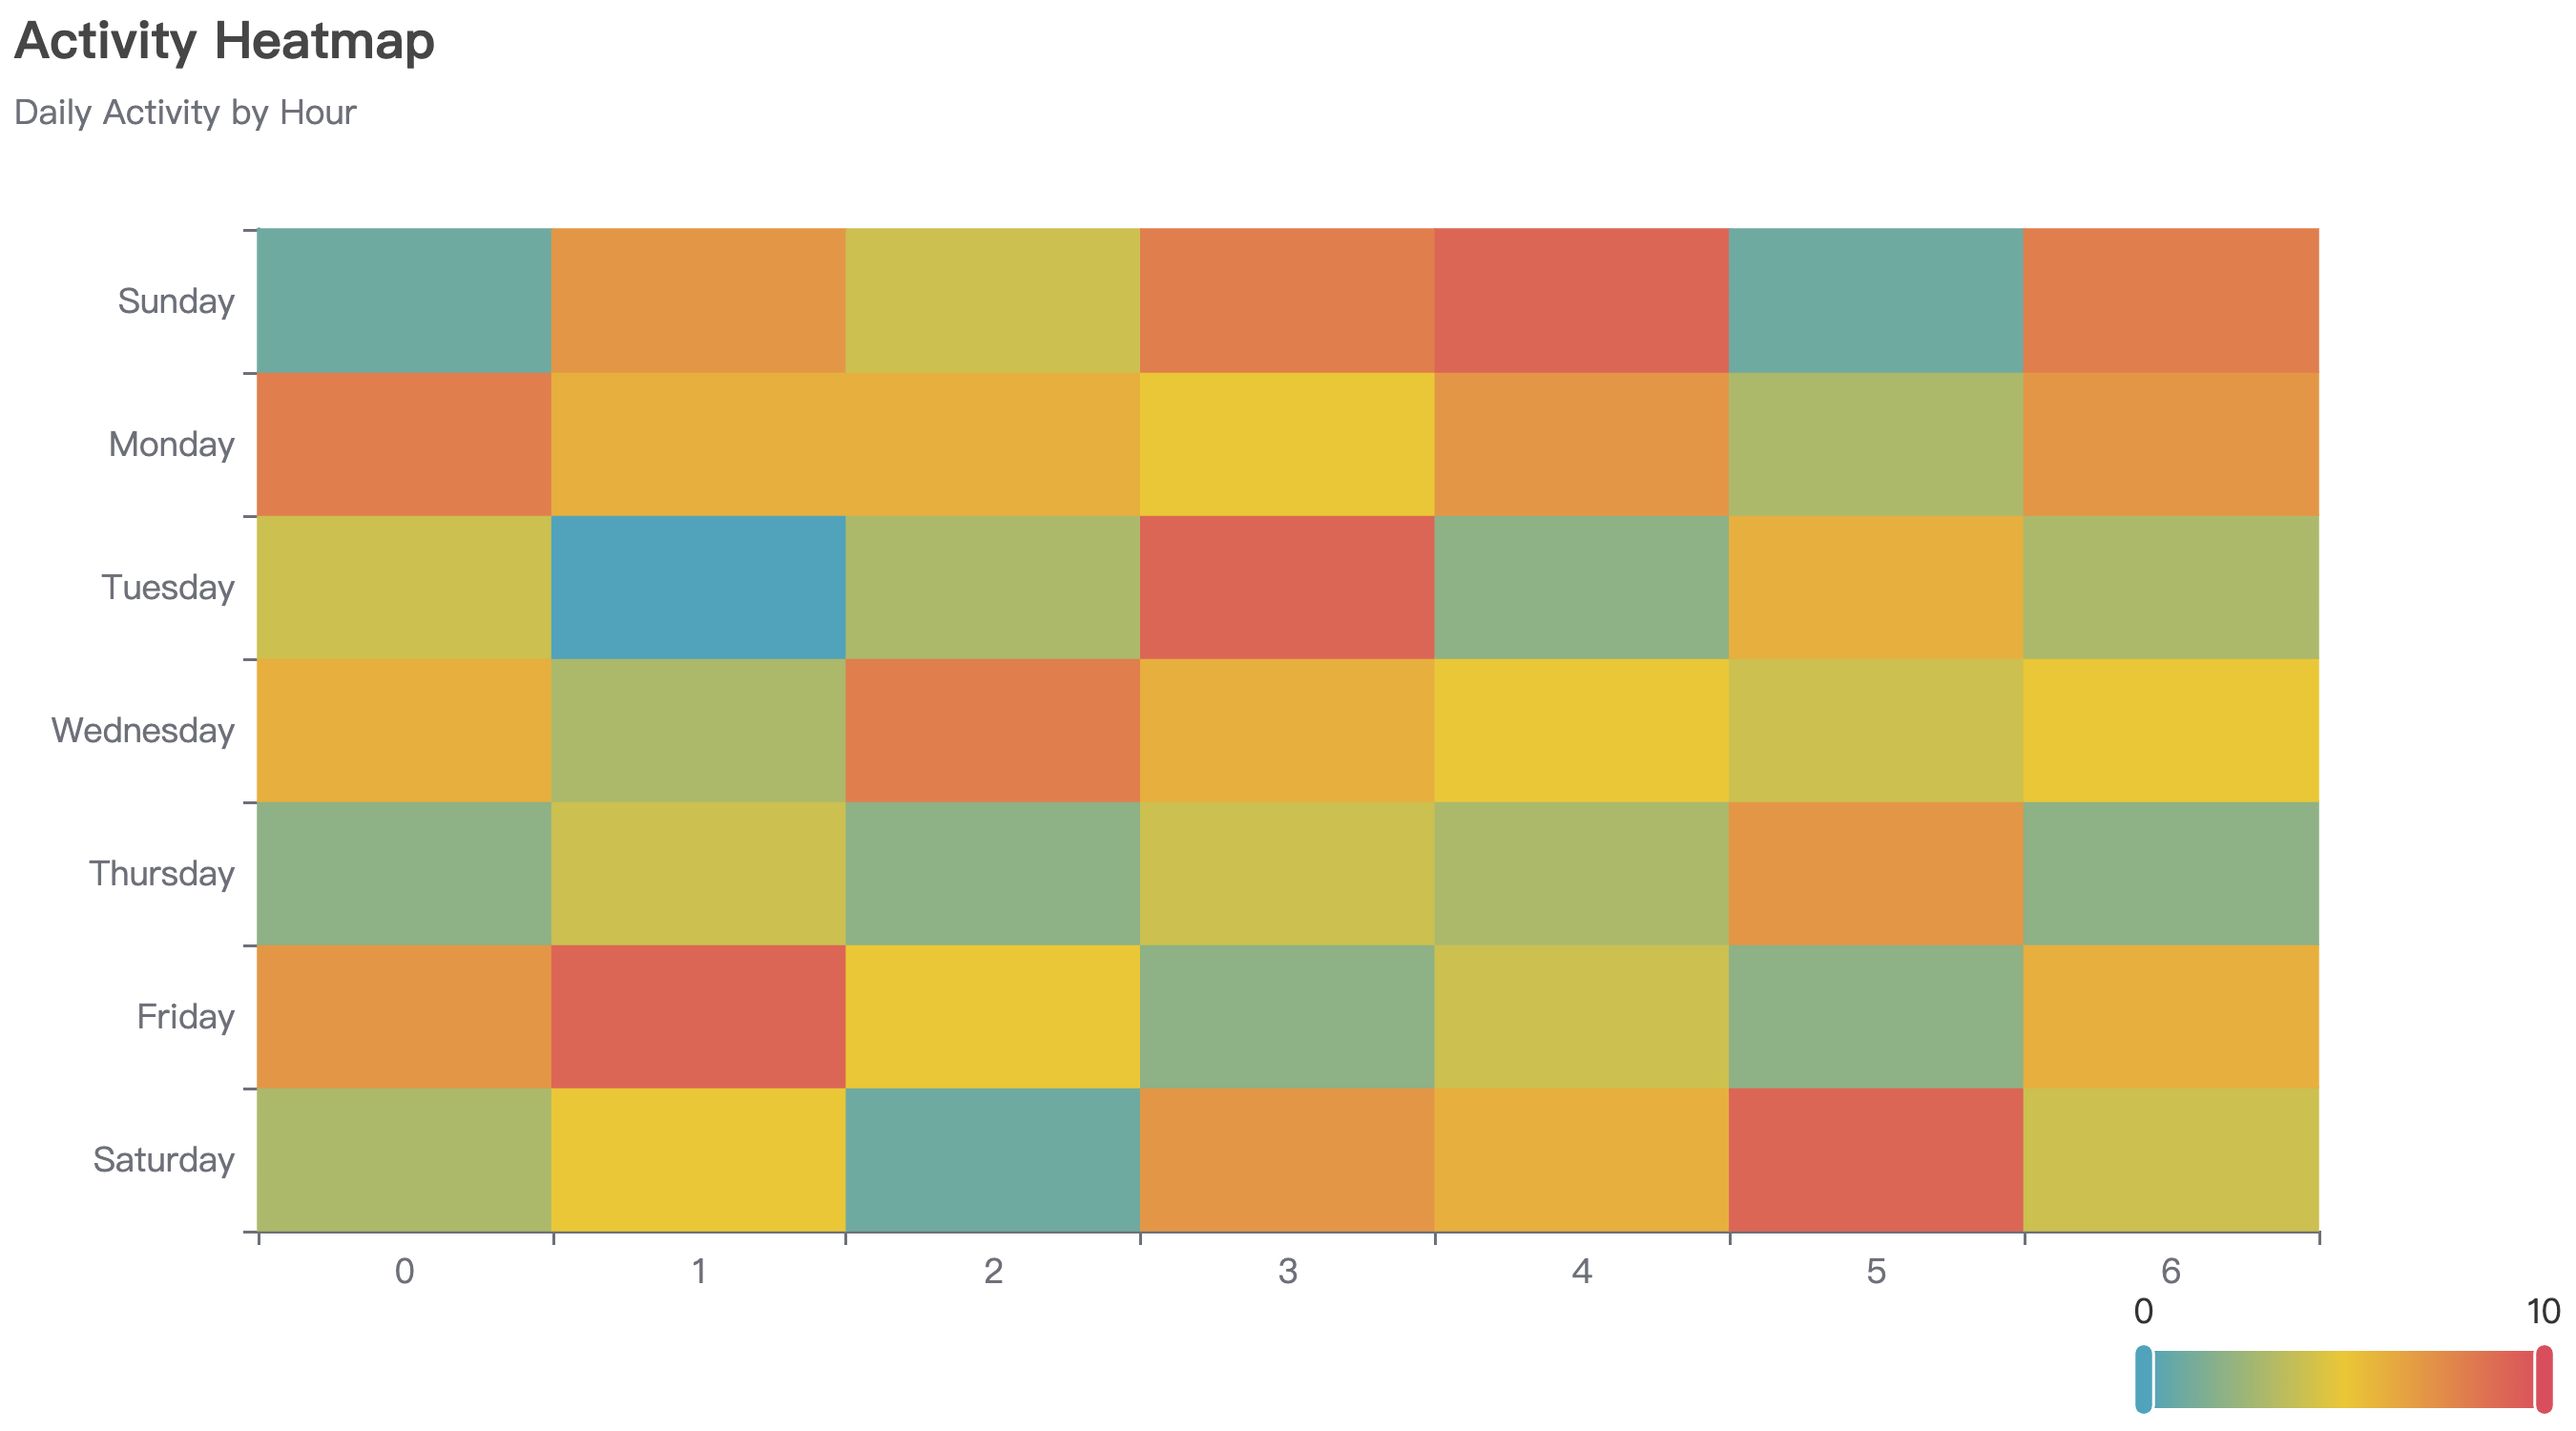
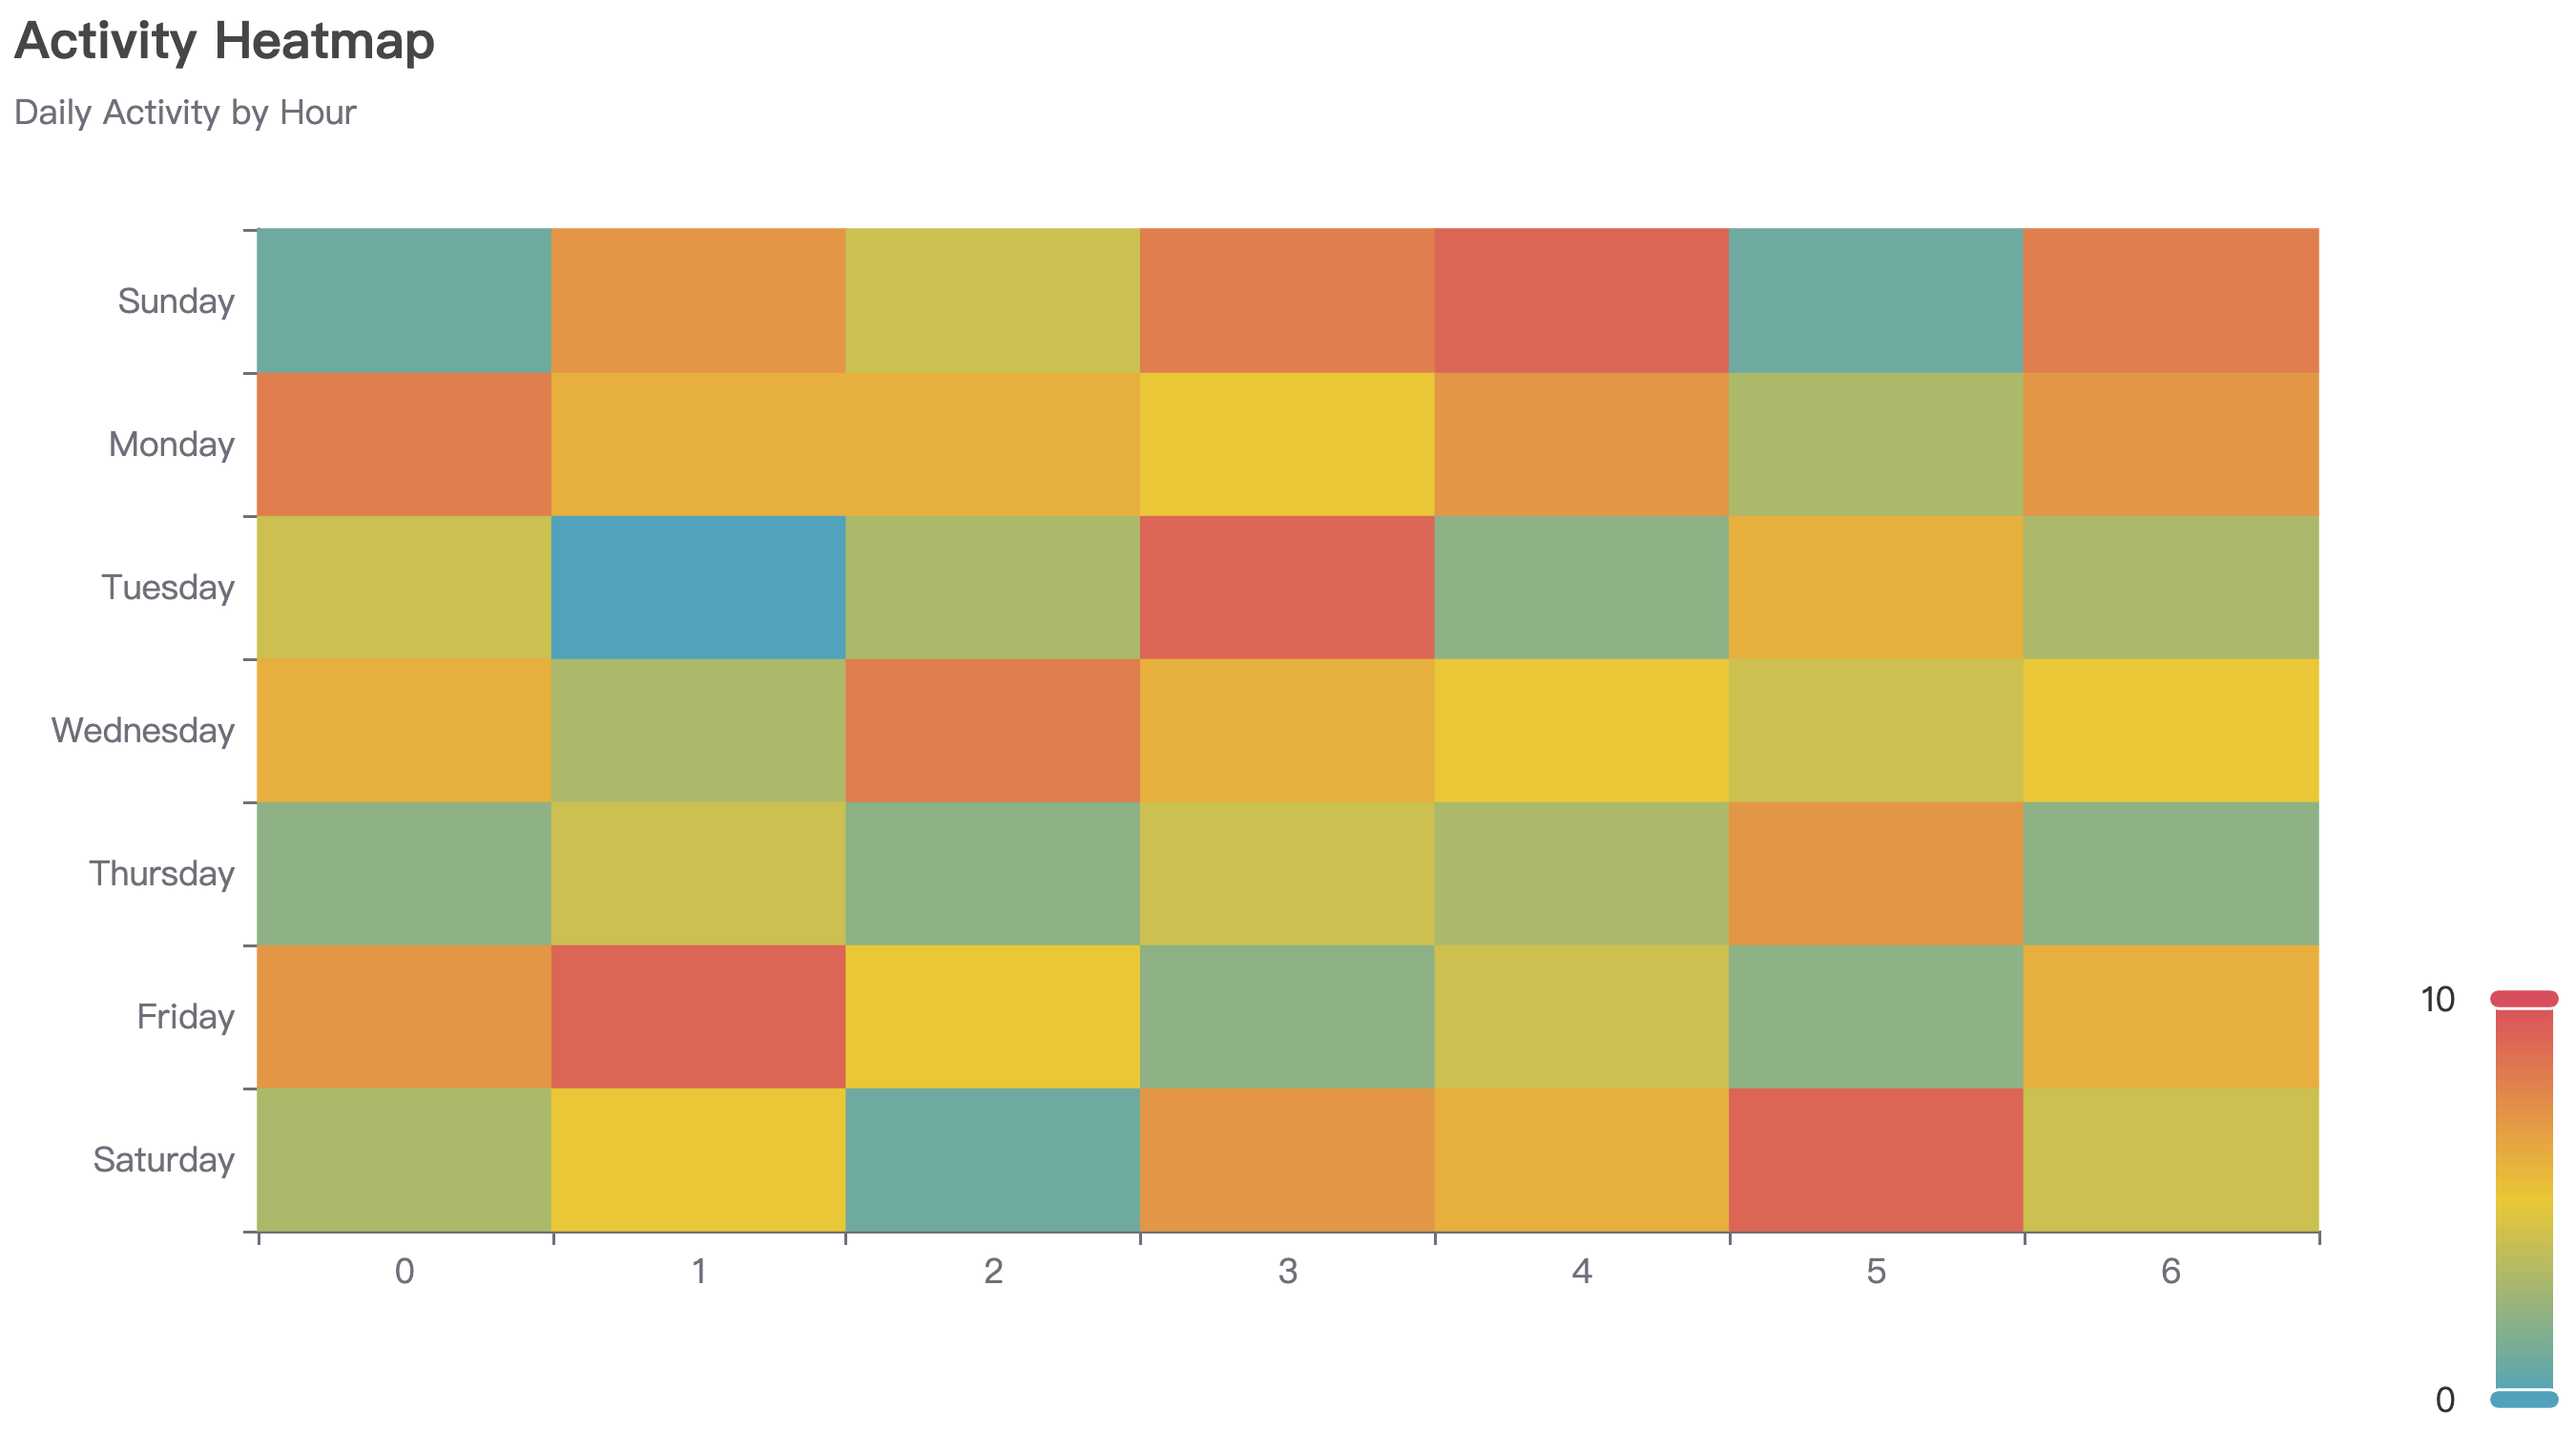
update

Changed region(s): [[0.8089, 0.6747, 0.9956, 1.0]]

diff --git a/plot/heatmap.go b/plot/heatmap.go
@@ -59,7 +59,7 @@ func CreateHeatmapChart(config HeatmapChartConfig) *charts.HeatMap {
 			InRange: &opts.VisualMapInRange{
 				Color: config.Colors,
 			},
-			Orient: "horizontal",
+			// Orient: "horizontal",
 			Bottom: "0%",
 			Right:  "0%",
 		}),
